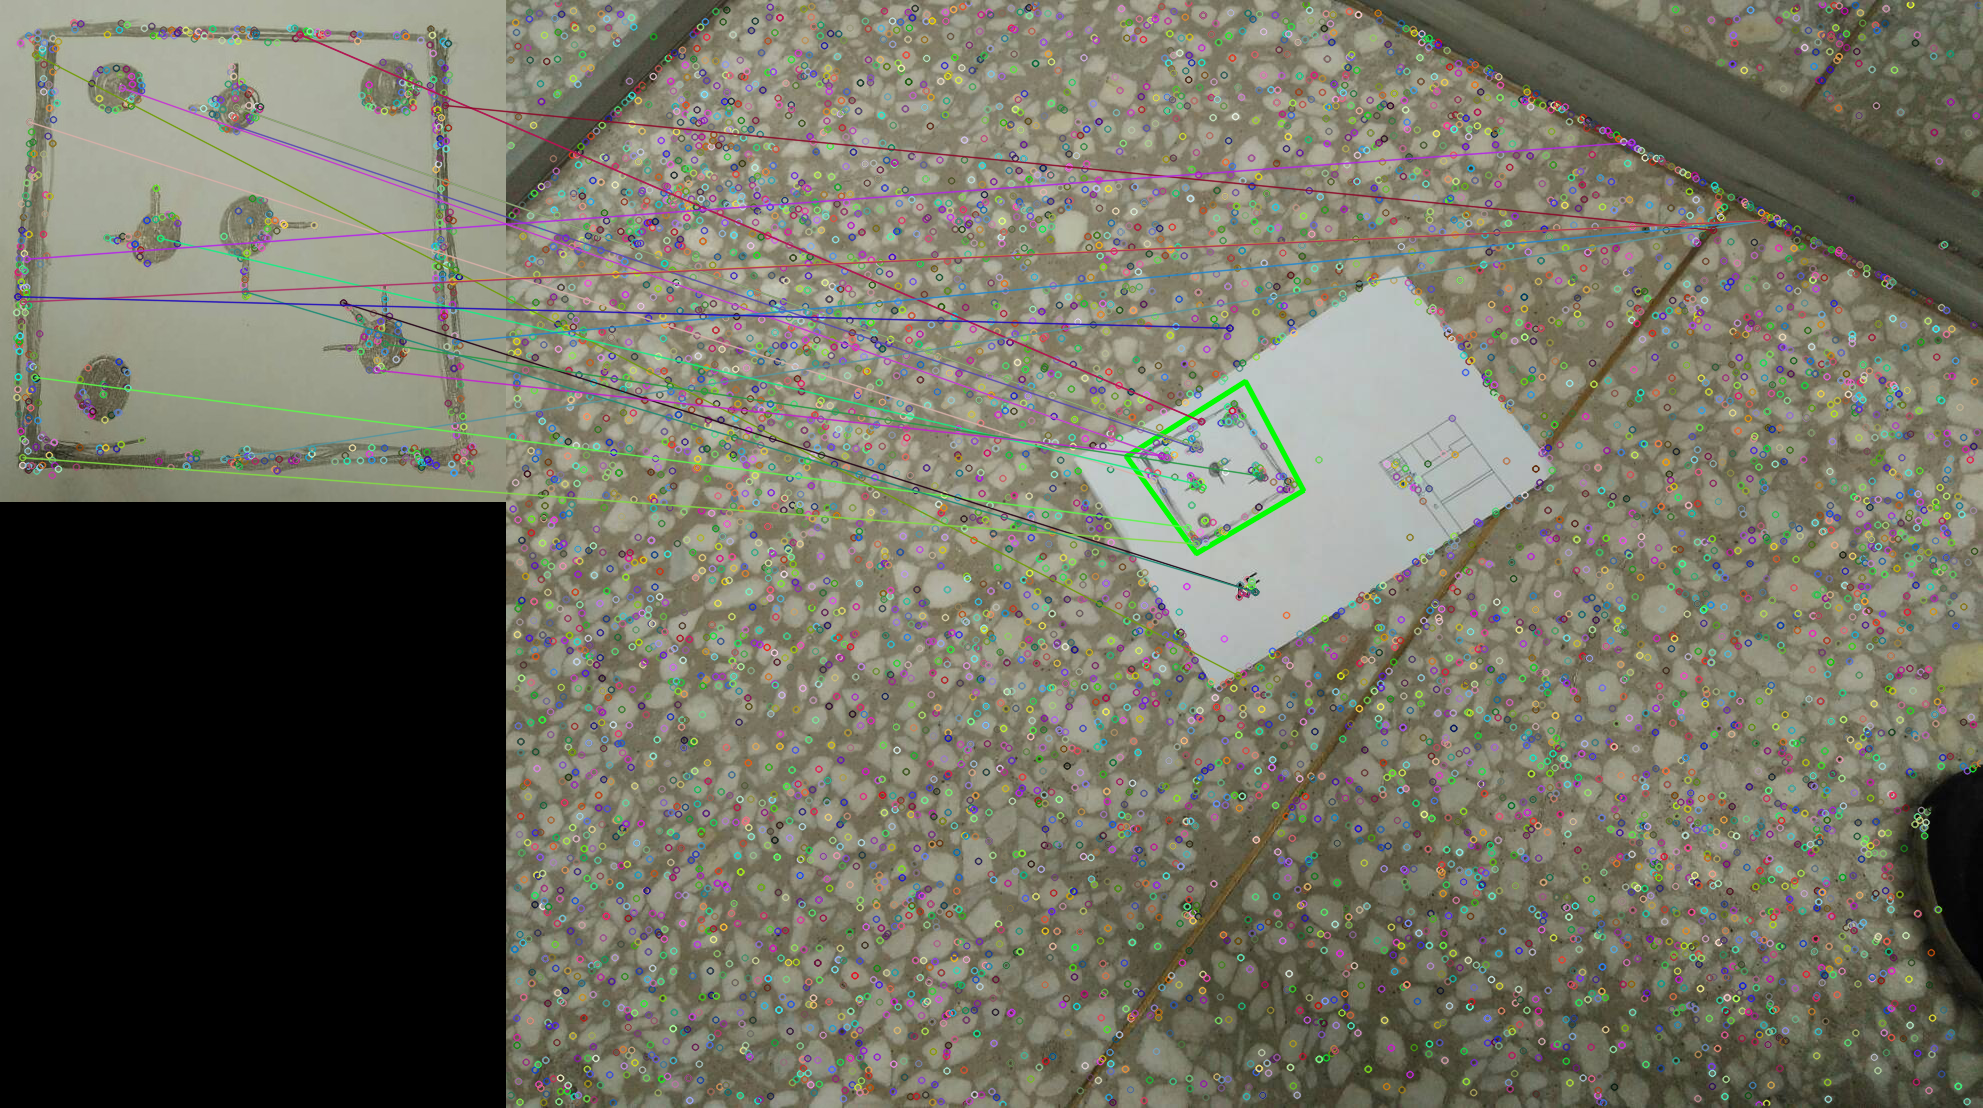
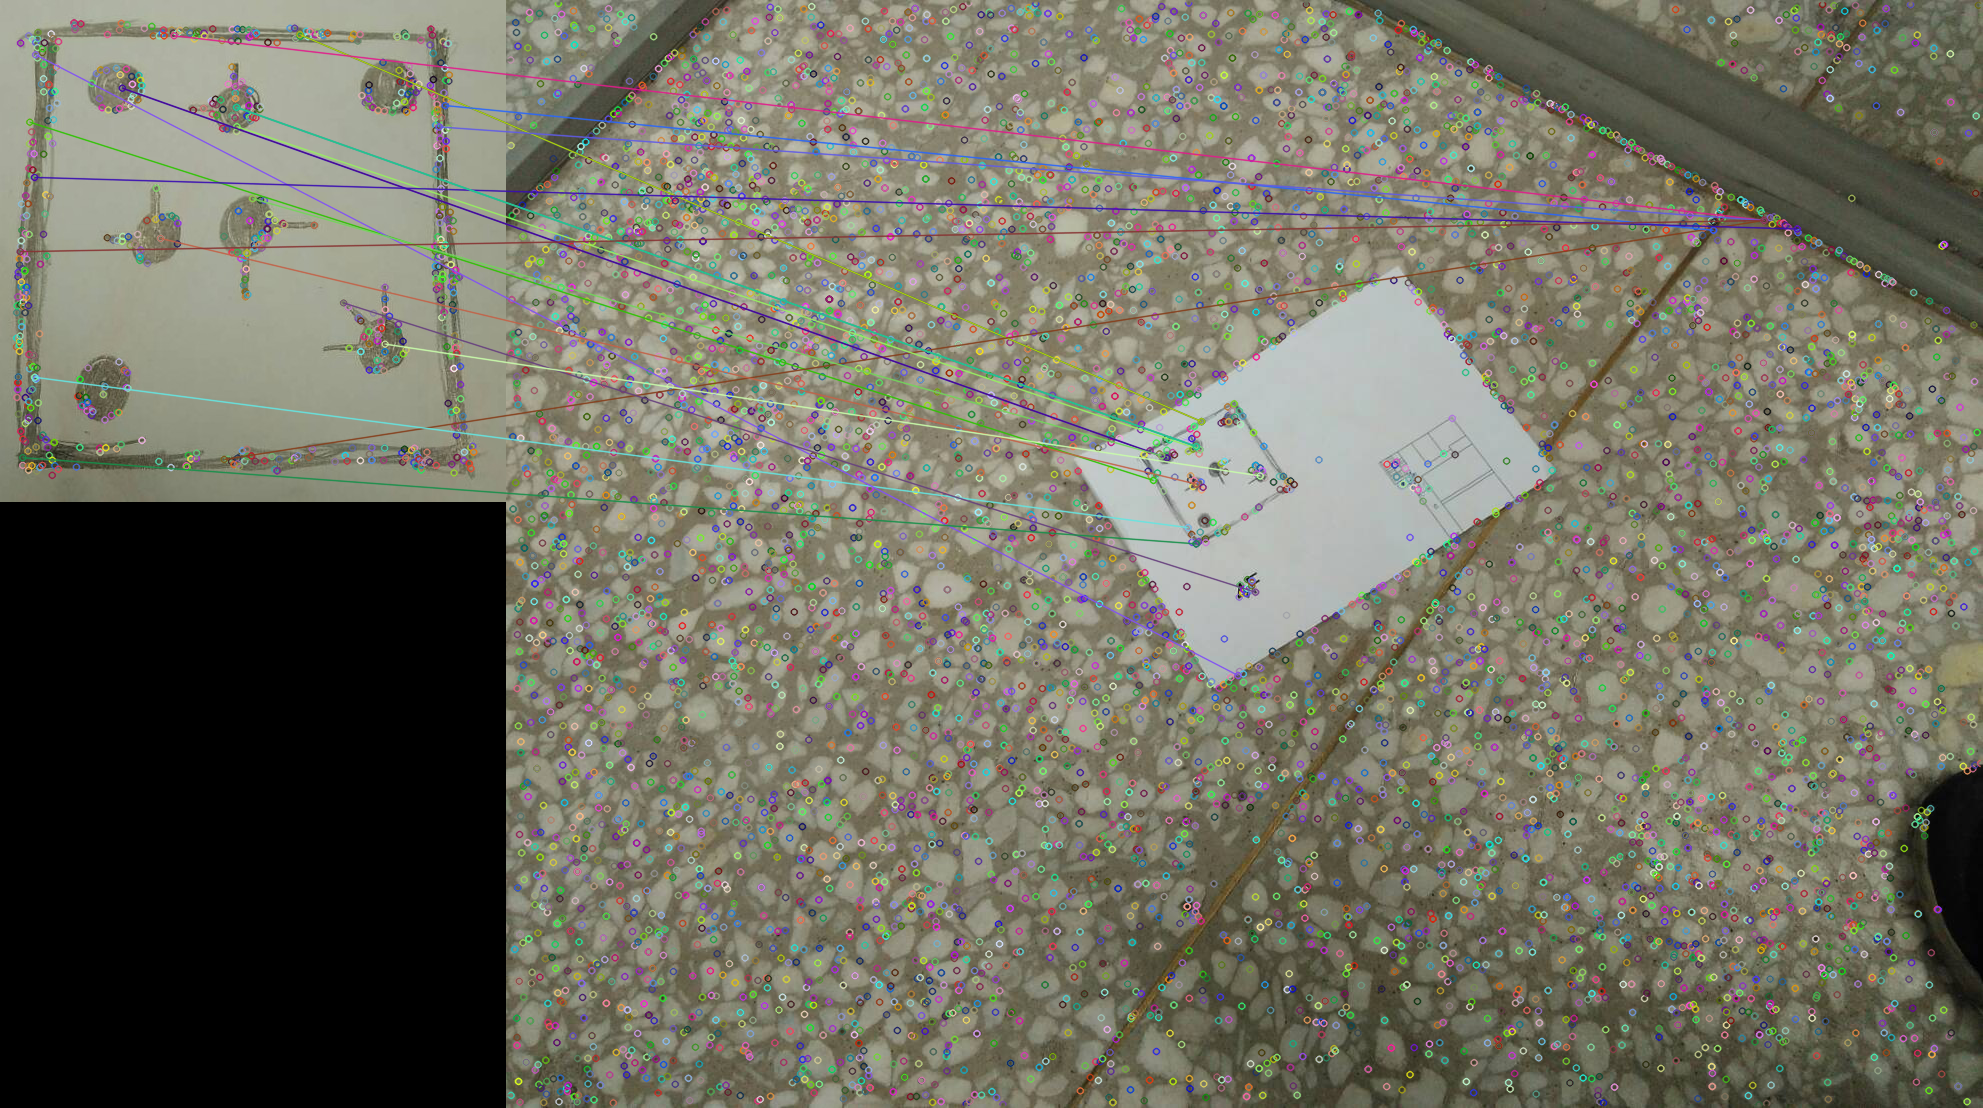
/object_recognize: update

diff --git a/Object_recognition.py b/Object_recognition.py
@@ -10,42 +10,35 @@ import cv2
 import numpy as np
 MIN_MATCH_COUNT = 4
 
-
 # load data
-img1 = cv2.imread('./test_recognition/1371867.jpg')
-img2 = cv2.imread('./test_recognition/1371866.jpg')
+img1 = cv2.imread('./testtt/7938976811261.jpg')
+img2 = cv2.imread('./testtt/7938976997433.jpg')
 gray1 = cv2.cvtColor(img1, cv2.COLOR_BGR2GRAY)
 gray2 = cv2.cvtColor(img2, cv2.COLOR_BGR2GRAY)
 
 # Create features of detector(SIFT) 
 sift = cv2.xfeatures2d.SIFT_create() # you can choose SIFT or SURF
 
-#(kps, descs) = sift.detectAndCompute(gray1, None)
-#print("# kps: {}, descriptors: {}".format(len(kps), descs.shape))
-## kps: 274, descriptors: (274, 128)
-#surf = cv2.xfeatures2d.SURF_create()
-#(kps, descs) = surf.detectAndCompute(gray1, None)
-#print("# kps: {}, descriptors: {}".format(len(kps), descs.shape))
-## kps: 393, descriptors: (393, 64)
 
-## (3) Create flann matcher
+# Create flann matcher
 matcher = cv2.FlannBasedMatcher(dict(algorithm = 1, trees = 5), {})
 
-## (4) Detect keypoints and compute keypointer descriptors
+# Detect keypoints and compute keypointer descriptors
 kpts1, descs1 = sift.detectAndCompute(gray1,None)
 kpts2, descs2 = sift.detectAndCompute(gray2,None)
 
-## (5) knnMatch to get Top2
+# knnMatch to get Top2
 matches = matcher.knnMatch(descs1, descs2, 2)
-# Sort by their distance.
+
+# $ Sort by their distance.
 matches = sorted(matches, key = lambda x:x[0].distance)
 
-## (6) Ratio test, to get good matches.
+# to get good matches.
 good = [m1 for (m1, m2) in matches if m1.distance < 0.7 * m2.distance]
 
 canvas = img2.copy()
 
-## (7) find homography matrix
+# find homography matrix
 ## 当有足够的健壮匹配点对（至少4个）时
 if len(good)>MIN_MATCH_COUNT:
     ## 从匹配中提取出对应点对
@@ -65,44 +58,26 @@ if len(good)>MIN_MATCH_COUNT:
 else:
     print( "Not enough matches are found - {}/{}".format(len(good),MIN_MATCH_COUNT))
 
+cv2.namedWindow('kkk', cv2.WINDOW_NORMAL)
+cv2.imshow('kkk', canvas)
+# drawMatches
+#draw_params = dict(matchColor = (0,255,0),
+#    singlePointColor = (255,0,0),
+##    matchesMask =1 matchesMask,
+#    flags = 0)
+#matched = cv2.drawMatches(img1,kpts1,img2,kpts2,good,None)#,**draw_params)
 
-## (8) drawMatches
-matched = cv2.drawMatches(img1,kpts1,canvas,kpts2,good,None)#,**draw_params)
+# Crop the matched region from scene
+#h,w = img1.shape[:2]
+#pts = np.float32([ [0,0],[0,h-1],[w-1,h-1],[w-1,0] ]).reshape(-1,1,2)
+#dst = cv2.perspectiveTransform(pts,M)
+#perspectiveM = cv2.getPerspectiveTransform(np.float32(dst),pts)
+#found = cv2.warpPerspective(img2,perspectiveM,(w,h))
 
-## (9) Crop the matched region from scene
-h,w = img1.shape[:2]
-pts = np.float32([ [0,0],[0,h-1],[w-1,h-1],[w-1,0] ]).reshape(-1,1,2)
-dst = cv2.perspectiveTransform(pts,M)
-perspectiveM = cv2.getPerspectiveTransform(np.float32(dst),pts)
-found = cv2.warpPerspective(img2,perspectiveM,(w,h))
 
 ## (10) save and display
-cv2.imwrite("matched.png", matched)
-cv2.imwrite("found.png", found)
-cv2.imshow("matched", matched);
-cv2.imshow("found", found);
-cv2.waitKey();cv2.destroyAllWindows()
-
-#%%
-import cv2
-import numpy as np
-
-def SIFT(img):
-    I = cv2.imread(img)
-    gray = cv2.cvtColor(I, cv2.COLOR_BGR2GRAY)
-    descriptor = cv2.xfeatures2d.SIFT_create()
-    kps, features = descriptor.detectAndCompute(gray, None)
-    nkps = []
-    for i in kps:
-        if i.size > 100:
-            nkps.append(i)
-    cv2.drawKeypoints(I,nkps,I,(0,255,255),flags=cv2.DRAW_MATCHES_FLAGS_DRAW_RICH_KEYPOINTS)
-    cv2.imshow('Vikings Detected!!', I)
-    cv2.imwrite('sift_keypoints.jpg',I)
-    cv2.waitKey(0)
-
-if __name__ == '__main__':
-    img = './test_recognition/1371867.jpg'
-    SIFT(img)
-    
-# https://blog.csdn.net/yzxnuaa/article/details/79221174
+#cv2.imwrite("matched.png", matched)
+#cv2.imwrite("found.png", found)
+#cv2.imshow("matched", matched);
+#cv2.imshow("found", found);
+#cv2.waitKey();cv2.destroyAllWindows()
